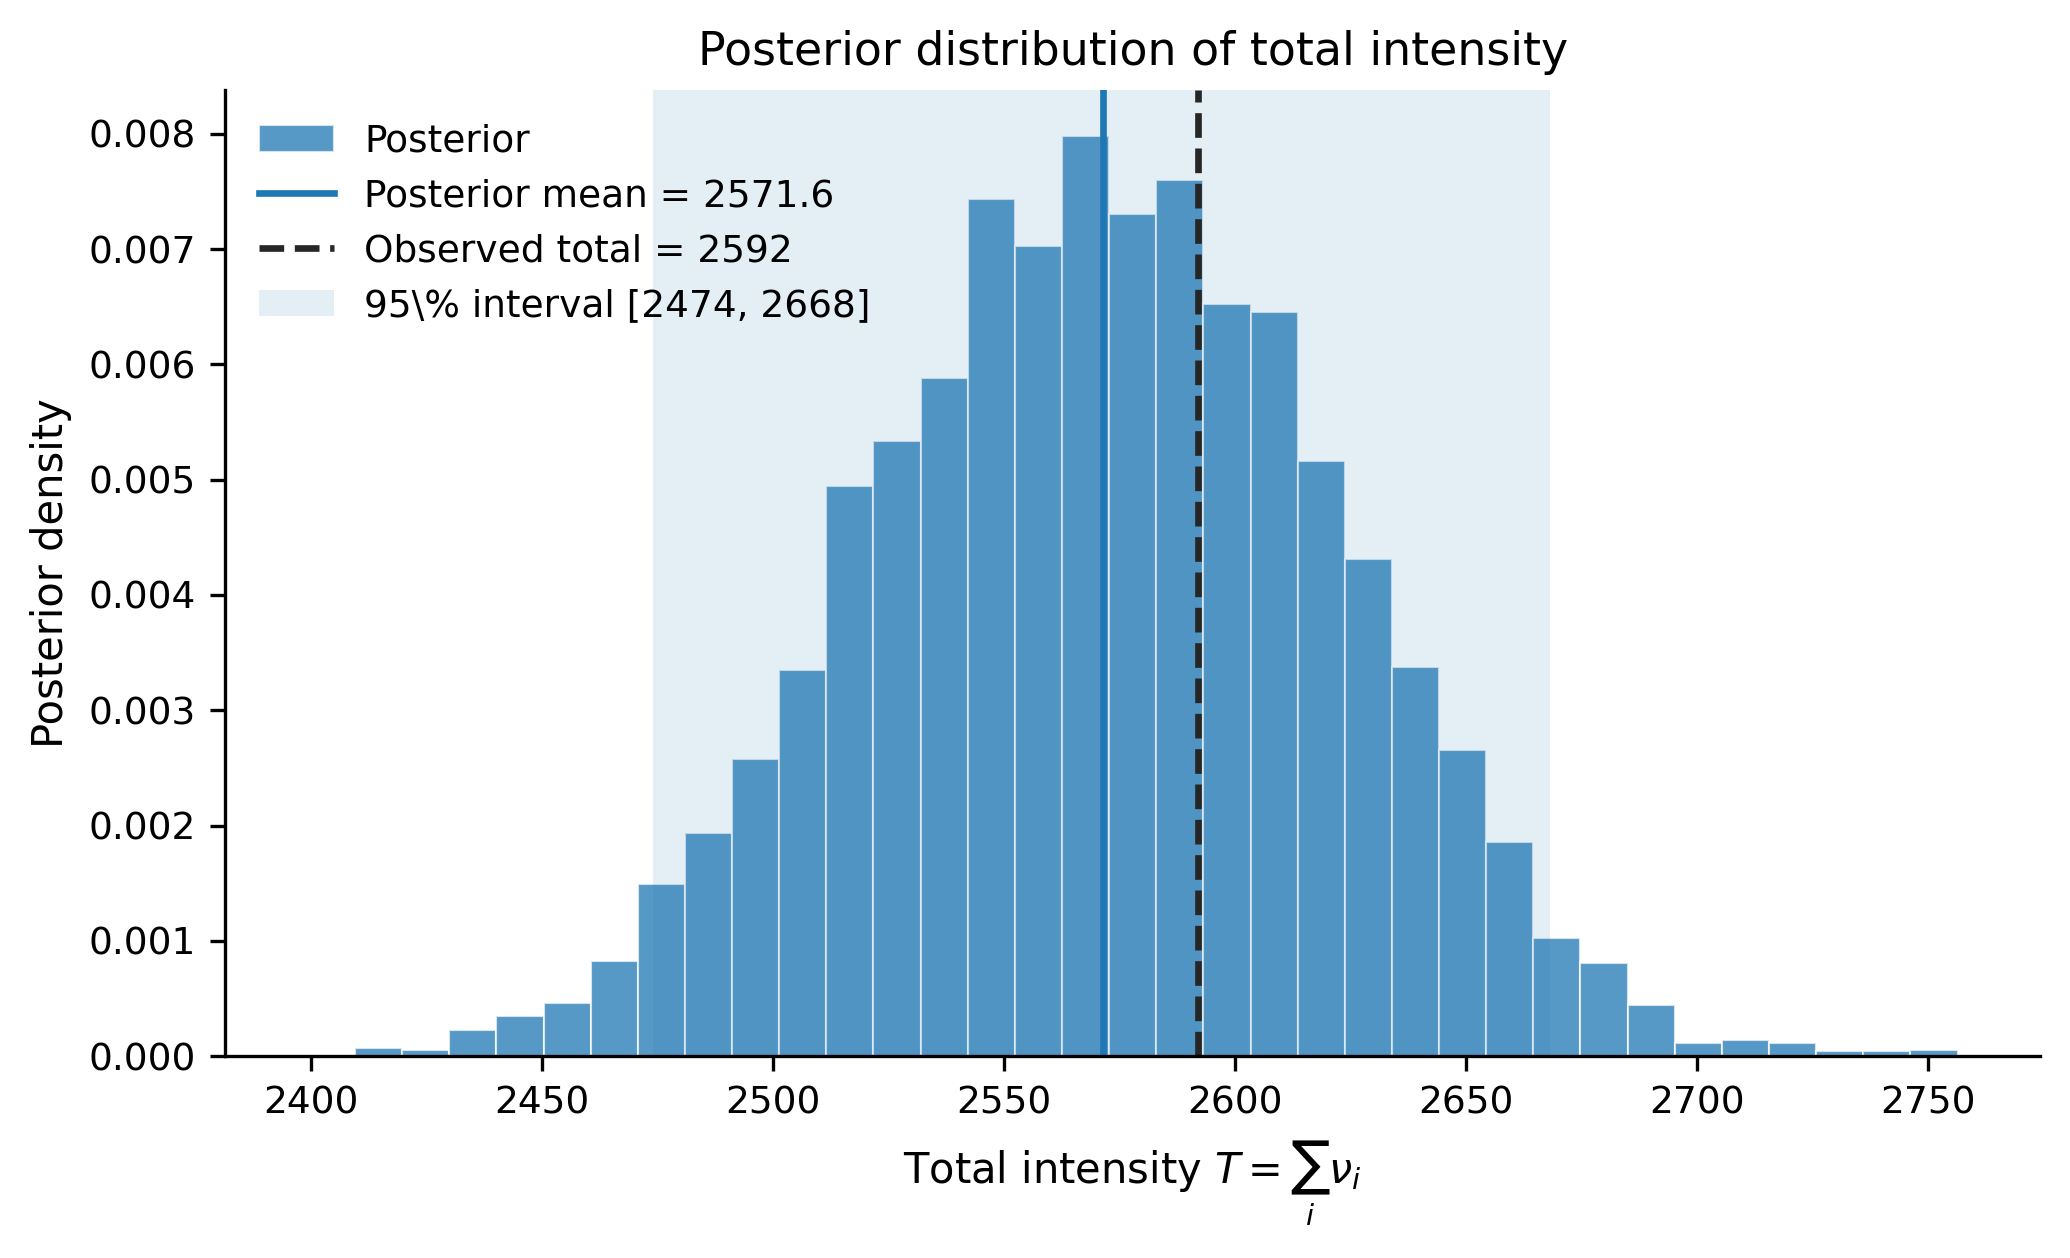
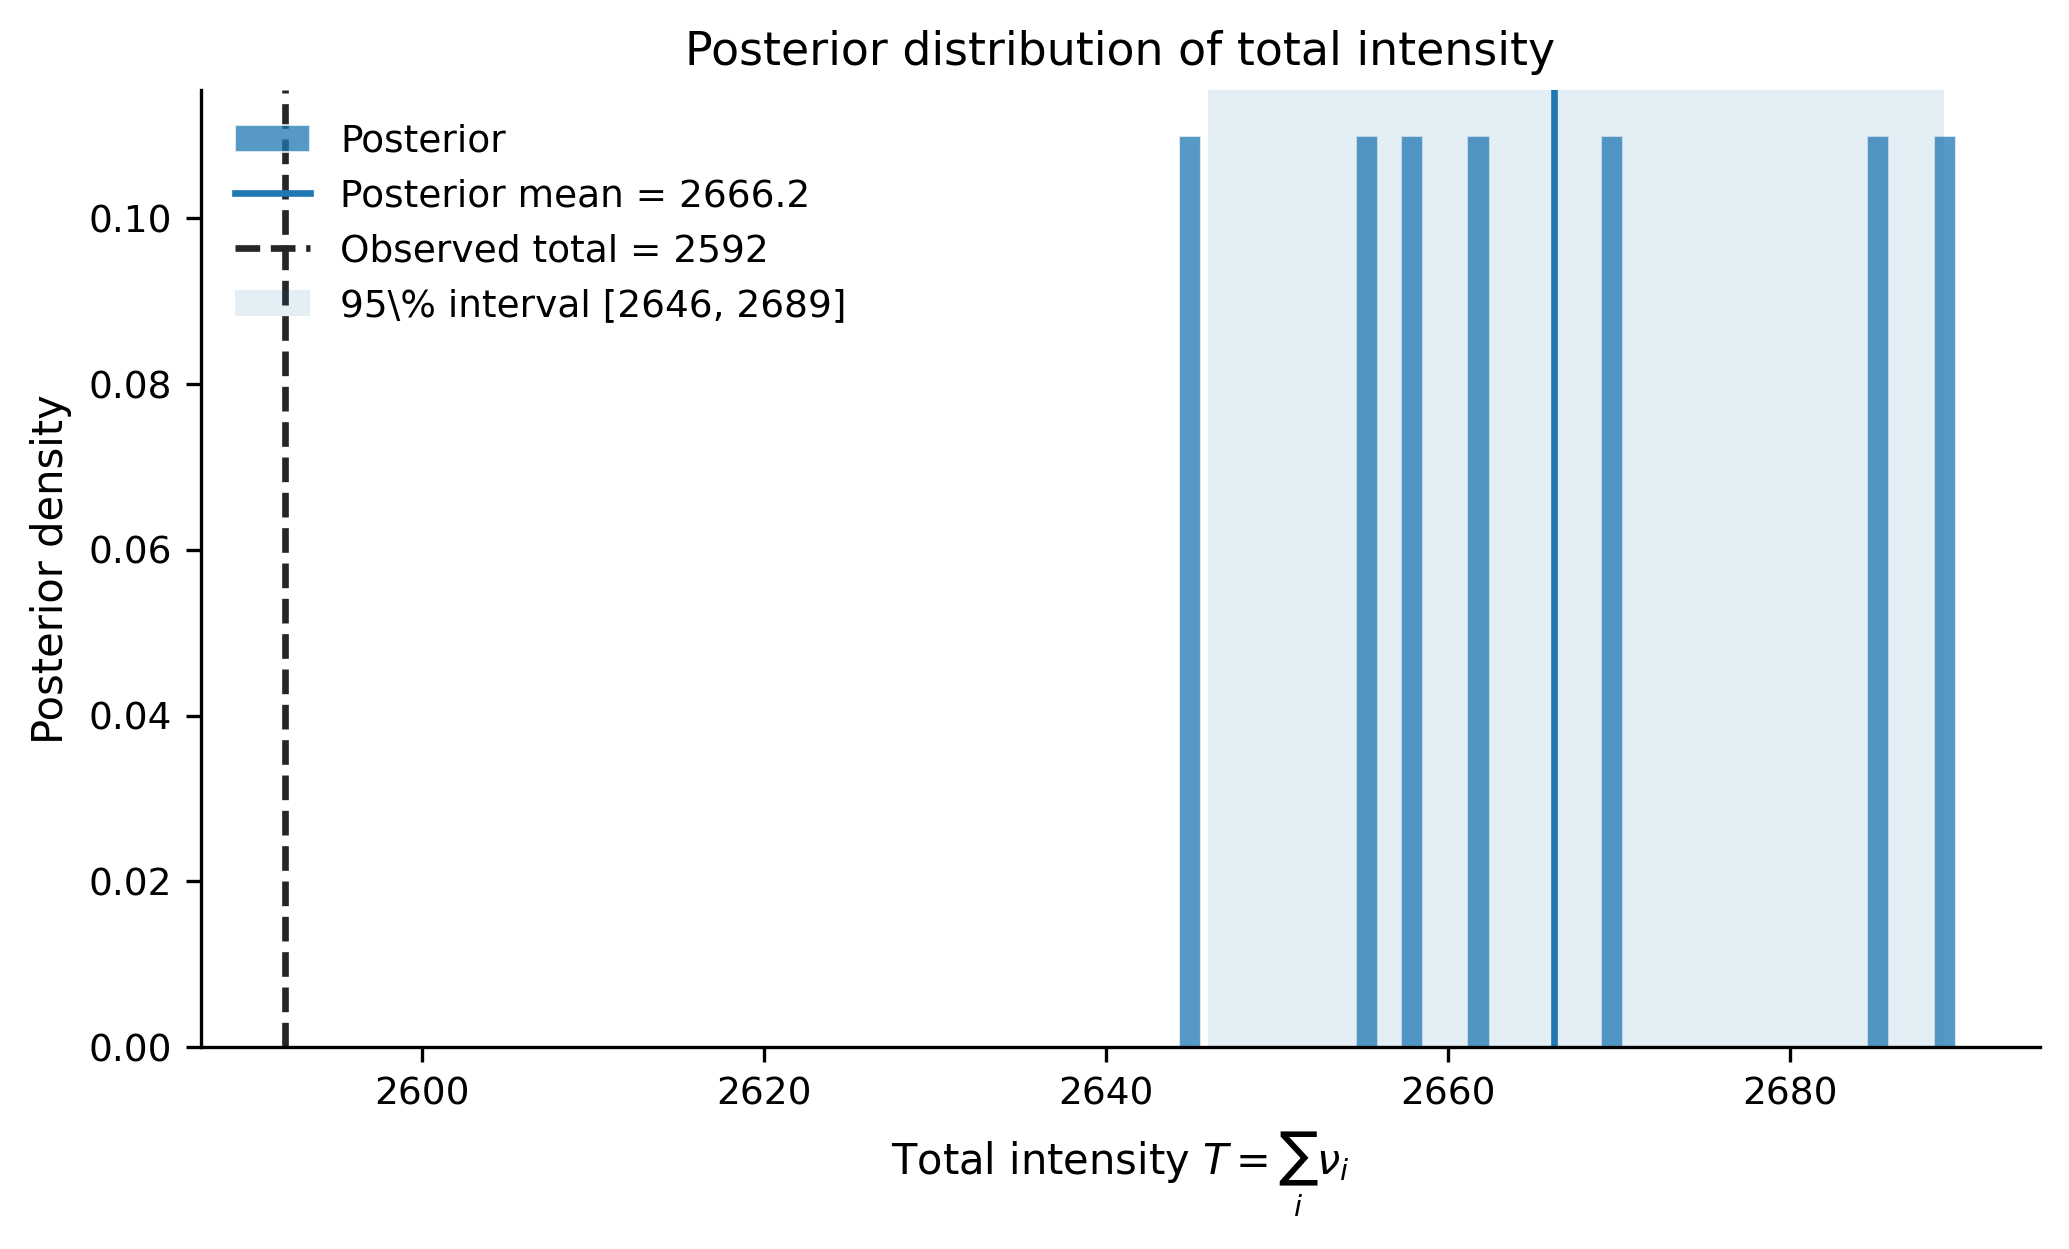
working after merge

diff --git a/experiments/exp_south_italy.py b/experiments/exp_south_italy.py
@@ -39,9 +39,9 @@ SOURCE_DIR = REPO_ROOT / "source"
 if str(SOURCE_DIR) not in sys.path:
     sys.path.insert(0, str(SOURCE_DIR))
 
-from catalog.catalog import SicilyCalabria
-import covariance_kernels as ck
-import polyagammadensity as pgd
+from polyagammapoisson.catalog.catalog import SicilyCalabria
+import polyagammapoisson.covariance_kernels as ck
+import polyagammapoisson.polyagammadensity as pgd
 
 
 # ---------------------------------------------------------------------
@@ -60,8 +60,8 @@ PRIOR_MEAN = -5.3
 BOUNDARY = "symmetric"
 
 MAP_NITER = 3000
-N_ITER = 10000
-BURN_IN = 3000
+N_ITER = 10
+BURN_IN = 3
 THIN = 1
 RANDOM_SEED = 101
 N_POSTERIOR_SAMPLES_TO_PLOT = 4
@@ -136,7 +136,7 @@ def plot_map(ax, x, cat, nbinx, nbiny, title, cbar_label, cmap="viridis", norm=N
 
 def prepare_catalogue():
     # SicilyCalabria already applies the fixed rotated-coordinate spatial cut.
-    cat = SicilyCalabria("INGV", BINSIZE=BIN_SIZE_KM)
+    cat = SicilyCalabria(catname="INGV", BINSIZE=BIN_SIZE_KM)
     n_before = len(cat.catDataFrame)
 
     # Keep non-child events according to the NND declustering rule.

diff --git a/source/catalog/tgoebel_clustering_analysis/clustering.py b/source/catalog/tgoebel_clustering_analysis/clustering.py
@@ -15,7 +15,7 @@ import warnings
 #===============================================================================
 #                          my modules
 #===============================================================================
-from . import data_utils as data_utils
+from  polyagammapoisson.catalog.tgoebel_clustering_analysis  import data_utils as data_utils
 
 #===============================================================================
 # 
